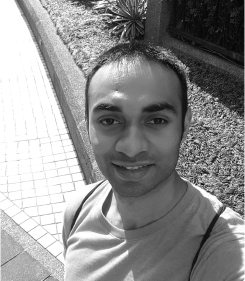
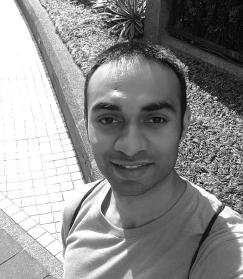
fix profile pic, correct Silvia name, add linkedin to team

diff --git a/src/app/page.tsx b/src/app/page.tsx
@@ -1,12 +1,25 @@
-import Link from 'next/link'
-import Image from 'next/image'
-import styles from './page.module.css'
+import Link from "next/link";
+import Image from "next/image";
+import styles from "./page.module.css";
 
-import { Bulb, Code, Community, Email, Flow1, HomeGraphic1, HomeGraphic2, Nodes, Pay, Person, Trophy } from "@/components/Svg"
-import classnames from 'classnames'
-import { Button } from '@/components/Button'
-import { sendToMailchimp } from './actions'
-import { useCallback } from 'react'
+import {
+  Bulb,
+  Code,
+  Community,
+  Email,
+  Linkedin,
+  Flow1,
+  HomeGraphic1,
+  HomeGraphic2,
+  Nodes,
+  Pay,
+  Person,
+  Trophy,
+} from "@/components/Svg";
+import classnames from "classnames";
+import { Button } from "@/components/Button";
+import { sendToMailchimp } from "./actions";
+import { useCallback } from "react";
 
 export default function Home() {
   return (
@@ -15,11 +28,17 @@ export default function Home() {
         <div className="flex place-content-between items-center">
           <div className="w-6/12">
             <h1 className="text-5xl font-heading">
-              Democratizing Data.<br />Shaping AI.
+              Democratizing Data.
+              <br />
+              Shaping AI.
             </h1>
-            <p className="text-3xl mt-8">Infrastructure for curating and accessing high quality datasets.</p>
+            <p className="text-3xl mt-8">
+              Infrastructure for curating and accessing high quality datasets.
+            </p>
           </div>
-          <div><HomeGraphic1 className="w-5/6" /></div>
+          <div>
+            <HomeGraphic1 className="w-5/6" />
+          </div>
         </div>
       </div>
       <div className={styles.gradient_block_1}>
@@ -28,36 +47,51 @@ export default function Home() {
             <HomeGraphic2 className="w-5/6" />
             <div className="ml-12">
               <h2 className="text-5xl font-heading mb-5">Access data</h2>
-              <p className="text-2xl text-coolGray-300">Hadar helps you find datasets that are usually proprietary, inaccessible or expensive.</p>
+              <p className="text-2xl text-coolGray-300">
+                Hadar helps you find datasets that are usually proprietary,
+                inaccessible or expensive.
+              </p>
             </div>
           </div>
           <div className="flex place-content-between items-center mt-28">
             <div className={styles.sub}>
               <p>Easily search for datasets</p>
-              <p>Made possible with clear metadata, usage and community votes.</p>
+              <p>
+                Made possible with clear metadata, usage and community votes.
+              </p>
             </div>
             <div className={styles.sub}>
               <p>Curate missing datasets</p>
-              <p>Can’t find what you need? Publish a request and get it created.</p>
+              <p>
+                Can’t find what you need? Publish a request and get it created.
+              </p>
             </div>
           </div>
           <div className="text-center mt-28">
-            <Link className='btn' href="/whitepaper">Learn more</Link>
+            <Link className="btn" href="/whitepaper">
+              Learn more
+            </Link>
           </div>
         </div>
       </div>
       <div className={styles.gradient_block_1}>
         <div className="content-width-wrapper">
-          <h2 className="font-heading text-center text-5xl leading-tight">Contribute to datasets.<br />Share in the future value.</h2>
+          <h2 className="font-heading text-center text-5xl leading-tight">
+            Contribute to datasets.
+            <br />
+            Share in the future value.
+          </h2>
           <div className="mt-20 flex place-content-between items-start">
-            <div className='mr-8'>
+            <div className="mr-8">
               <div className={styles.icon_with_content}>
                 <div>
                   <Bulb />
                 </div>
                 <div className={styles.sub}>
                   <p>Request Data</p>
-                  <p>Set standards and invite verifiers to help with curation.</p>
+                  <p>
+                    Set standards and invite verifiers to help with curation.
+                  </p>
                 </div>
               </div>
               <div className={styles.icon_with_content}>
@@ -87,30 +121,38 @@ export default function Home() {
                   <p>Reduce the cost of data access for all.</p>
                 </div>
               </div>
-              <div className='mt-20'>
-                <Link className='btn' href="/whitepaper">Learn more</Link>
+              <div className="mt-20">
+                <Link className="btn" href="/whitepaper">
+                  Learn more
+                </Link>
               </div>
             </div>
-            <Flow1 className='w-7/12' />
+            <Flow1 className="w-7/12" />
           </div>
         </div>
       </div>
       <div className={styles.gradient_block_1}>
         <div className="content-width-wrapper">
           <div className="flex place-content-center items-center">
-            <div className='w-7/12'>
+            <div className="w-7/12">
               <h2 className="text-5xl font-heading mb-10">Our Mission</h2>
-              <p className="text-2xl mb-20">At Hadar, we believe that a decentralized data bank that is openly curated and accessible by the crowd can help democratize and promote innovation.</p>
-              <Link className='btn' href="/whitepaper">Learn more</Link>
+              <p className="text-2xl mb-20">
+                At Hadar, we believe that a decentralized data bank that is
+                openly curated and accessible by the crowd can help democratize
+                and promote innovation.
+              </p>
+              <Link className="btn" href="/whitepaper">
+                Learn more
+              </Link>
             </div>
-            <div className='ml-20'>
+            <div className="ml-20">
               <div className={styles.icon_with_content}>
                 <div>
                   <Nodes />
                 </div>
                 <div className={styles.sub}>
                   <p>Openly curated datasets</p>
-                <p>High quality datasets that are crowd-sourced.</p>
+                  <p>High quality datasets that are crowd-sourced.</p>
                 </div>
               </div>
               <div className={styles.icon_with_content}>
@@ -119,7 +161,10 @@ export default function Home() {
                 </div>
                 <div className={styles.sub}>
                   <p>Profit-sharing</p>
-                  <p>Value shared among users who provide, curate and verify data.</p>
+                  <p>
+                    Value shared among users who provide, curate and verify
+                    data.
+                  </p>
                 </div>
               </div>
               <div className={styles.icon_with_content}>
@@ -138,20 +183,44 @@ export default function Home() {
       <div className={styles.gradient_block_1}>
         <div className="content-width-wrapper">
           <h2 className="text-5xl text-center font-heading mb-10">Team</h2>
-          <p className={classnames(styles.content_sub_text, "text-center mb-20")}>Combined 20+ years building tech products in ML and blockchain that served millions of users, managed billions in AUM, and generated billions in trading volume.</p>
-          <div className='flex place-content-around items-center'>
+          <p
+            className={classnames(styles.content_sub_text, "text-center mb-20")}
+          >
+            Combined 20+ years building tech products in ML and blockchain that
+            served millions of users, managed billions in AUM, and generated
+            billions in trading volume.
+          </p>
+          <div className="flex place-content-around items-center">
             <div className={styles.team_member}>
-              <Image alt="Sylvia Chen" src="/images/sylvia.jpg" width={244} height={281} unoptimized />
+              <Image
+                alt="Sylvia Chen"
+                src="/images/sylvia.jpg"
+                width={244}
+                height={281}
+                unoptimized
+              />
               <div>
-                <h3>Sylvia Chen</h3>
+                <h3>Silvia Chen</h3>
                 <p>CEO, Co-founder</p>
+                <a href="https://www.linkedin.com/in/silvia-chen/">
+                  <Linkedin />
+                </a>
               </div>
             </div>
             <div className={styles.team_member}>
-              <Image alt="Ramesh Nair" src="/images/ram.jpg" width={244} height={281} unoptimized />
+              <Image
+                alt="Ramesh Nair"
+                src="/images/ram.jpg"
+                width={244}
+                height={281}
+                unoptimized
+              />
               <div>
                 <h3>Ramesh Nair</h3>
                 <p>CTO, Co-founder</p>
+                <a href="https://www.linkedin.com/in/hiddentao/">
+                  <Linkedin />
+                </a>
               </div>
             </div>
           </div>
@@ -160,48 +229,70 @@ export default function Home() {
       <div className={styles.gradient_block_1}>
         <a id="request_access" href="#"></a>
         <div className="content-width-wrapper">
-          <div className='flex place-content-between items-center'>
-            <div className='w-4/12'>
+          <div className="flex place-content-between items-center">
+            <div className="w-4/12">
               <h2 className="text-5xl font-heading mb-10">Early Access</h2>
-              <p className="text-xl">We will grant limited access to early adopters along with a special welcome package.</p>
+              <p className="text-xl">
+                We will grant limited access to early adopters along with a
+                special welcome package.
+              </p>
             </div>
             <div>
-              <form className='7/12' action={sendToMailchimp}>
-                <h3 className='text-2xl font-heading mb-10'>Enter details</h3>
+              <form className="7/12" action={sendToMailchimp}>
+                <h3 className="text-2xl font-heading mb-10">Enter details</h3>
                 <div className="mb-10">
                   <label>Full name</label>
-                  <input name="fullName" required={true} type="text" maxLength={50} className='w-60'/>
+                  <input
+                    name="fullName"
+                    required={true}
+                    type="text"
+                    maxLength={50}
+                    className="w-60"
+                  />
                 </div>
                 <div className="mb-10">
                   <label>Email address</label>
-                  <input name="email" required={true} type="email" className='w-60' />
+                  <input
+                    name="email"
+                    required={true}
+                    type="email"
+                    className="w-60"
+                  />
                 </div>
                 <div className="mb-10">
                   <label>Select all that apply</label>
-                  <div className='mb-1'>
+                  <div className="mb-1">
                     <input type="checkbox" name="interests" value="access" />
-                    <span className='ml-2'>I need to access datasets</span>
+                    <span className="ml-2">I need to access datasets</span>
                   </div>
-                  <div className='mb-1'>
+                  <div className="mb-1">
                     <input type="checkbox" name="interests" value="publish" />
-                    <span className='ml-2'>I want to publish datasets</span>
+                    <span className="ml-2">I want to publish datasets</span>
                   </div>
-                  <div className='mb-1'>
+                  <div className="mb-1">
                     <input type="checkbox" name="interests" value="source" />
-                    <span className='ml-2'>I want to source datasets that don&apos;t exist</span>
+                    <span className="ml-2">
+                      I want to source datasets that don&apos;t exist
+                    </span>
                   </div>
-                  <div className='mb-1'>
+                  <div className="mb-1">
                     <input type="checkbox" name="interests" value="verify" />
-                    <span className='ml-2'>I can verify datasets</span>
+                    <span className="ml-2">I can verify datasets</span>
                   </div>
-                  <div className='mb-1'>
+                  <div className="mb-1">
                     <input type="checkbox" name="interests" value="sponsor" />
-                    <span className='ml-2'>I want to sponsor dataset access</span>
+                    <span className="ml-2">
+                      I want to sponsor dataset access
+                    </span>
                   </div>
                 </div>
                 <div>
-                  <div className='mb-4'>
-                    <em className='text-sm'>By submitting this form you agree to our <Link href="/terms">terms and conditions</Link> and <Link href="/privacy">privacy policy</Link>.</em>
+                  <div className="mb-4">
+                    <em className="text-sm">
+                      By submitting this form you agree to our{" "}
+                      <Link href="/terms">terms and conditions</Link> and{" "}
+                      <Link href="/privacy">privacy policy</Link>.
+                    </em>
                   </div>
                   <Button type="submit">Submit</Button>
                 </div>
@@ -211,6 +302,5 @@ export default function Home() {
         </div>
       </div>
     </div>
-  )
+  );
 }
-

diff --git a/src/components/Svg.tsx b/src/components/Svg.tsx
@@ -1,14 +1,29 @@
-import HomeGraphic1 from '../images/home-graphic1.svg'
-import HomeGraphic2 from '../images/home-graphic2.svg'
-import Flow1 from '../images/flow1.svg'
-import Bulb from '../images/bulb.svg'
-import Code from '../images/code.svg'
-import Person from '../images/person.svg'
-import Trophy from '../images/trophy.svg'
-import Nodes from '../images/nodes.svg'
-import Pay from '../images/pay.svg'
-import Community from '../images/community.svg'
-import Twitter from '../images/twitter.svg'
-import Email from '../images/email.svg'
+import HomeGraphic1 from "../images/home-graphic1.svg";
+import HomeGraphic2 from "../images/home-graphic2.svg";
+import Flow1 from "../images/flow1.svg";
+import Bulb from "../images/bulb.svg";
+import Code from "../images/code.svg";
+import Person from "../images/person.svg";
+import Trophy from "../images/trophy.svg";
+import Nodes from "../images/nodes.svg";
+import Pay from "../images/pay.svg";
+import Community from "../images/community.svg";
+import Twitter from "../images/twitter.svg";
+import Email from "../images/email.svg";
+import Linkedin from "../images/linkedin.svg";
 
-export { Community, HomeGraphic1, HomeGraphic2, Flow1, Bulb, Code, Person, Trophy, Nodes, Pay, Twitter, Email }
+export {
+  Community,
+  HomeGraphic1,
+  HomeGraphic2,
+  Flow1,
+  Bulb,
+  Code,
+  Person,
+  Trophy,
+  Nodes,
+  Pay,
+  Twitter,
+  Email,
+  Linkedin,
+};
